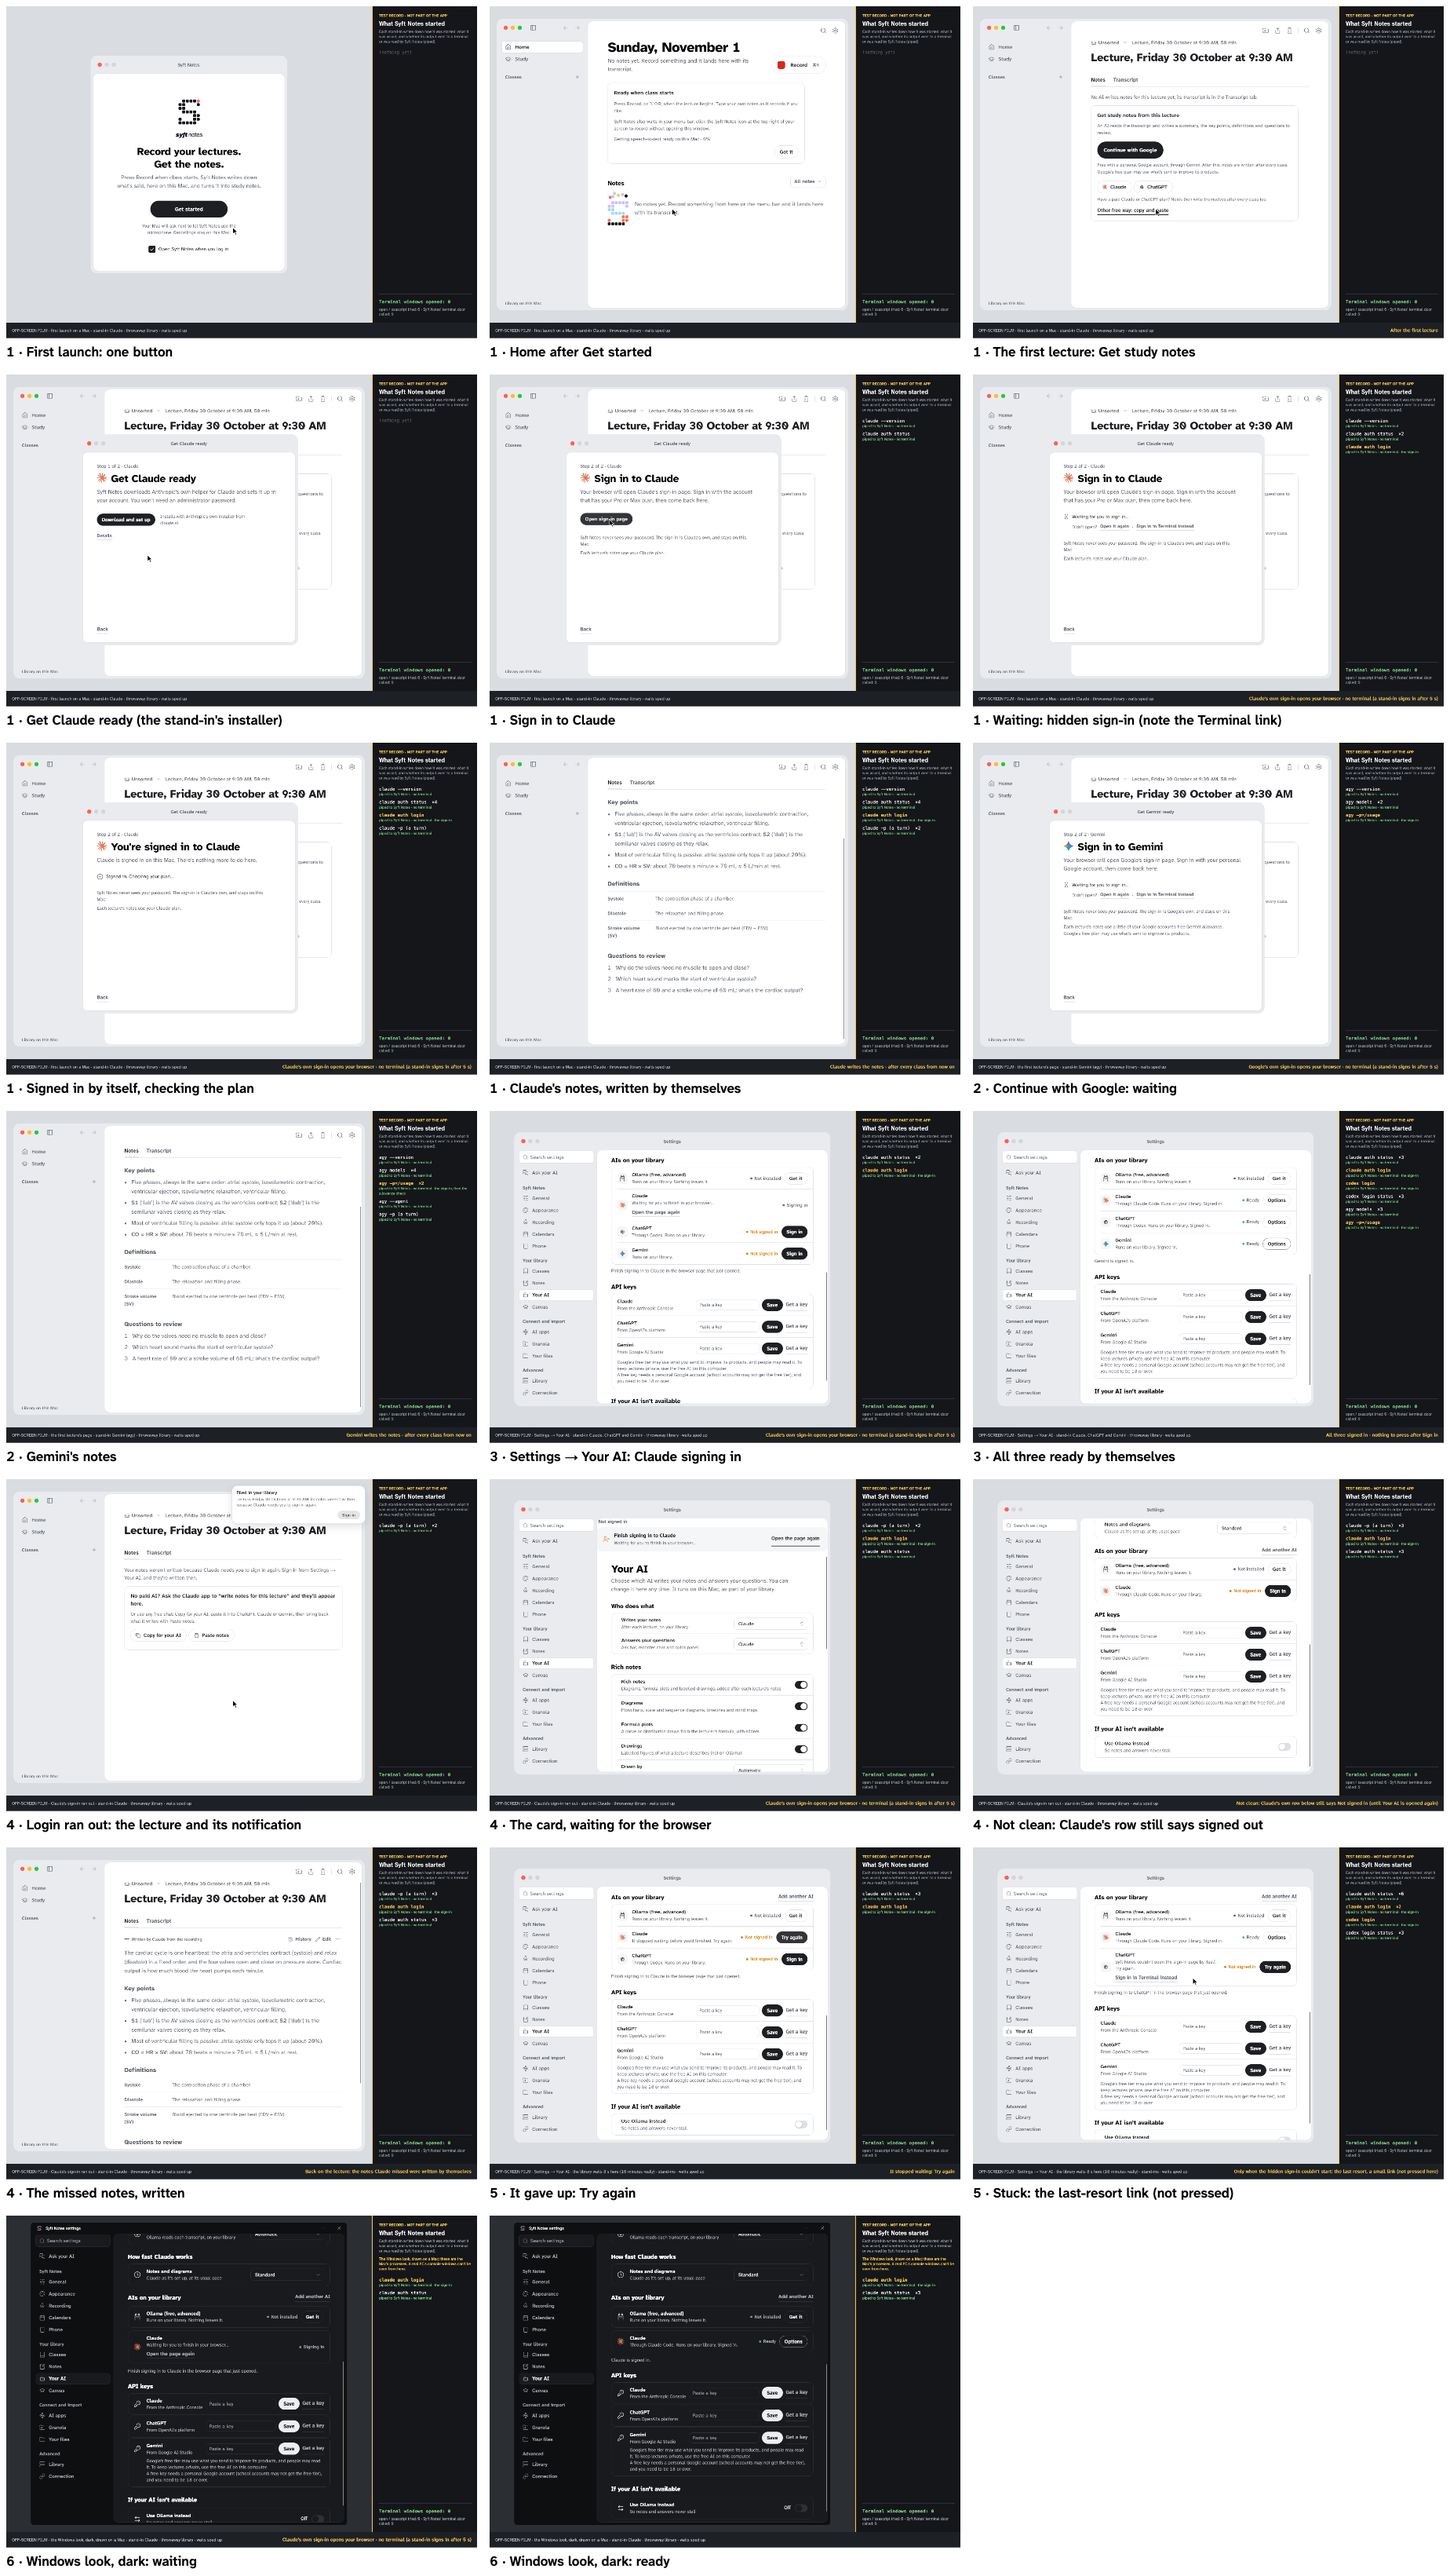
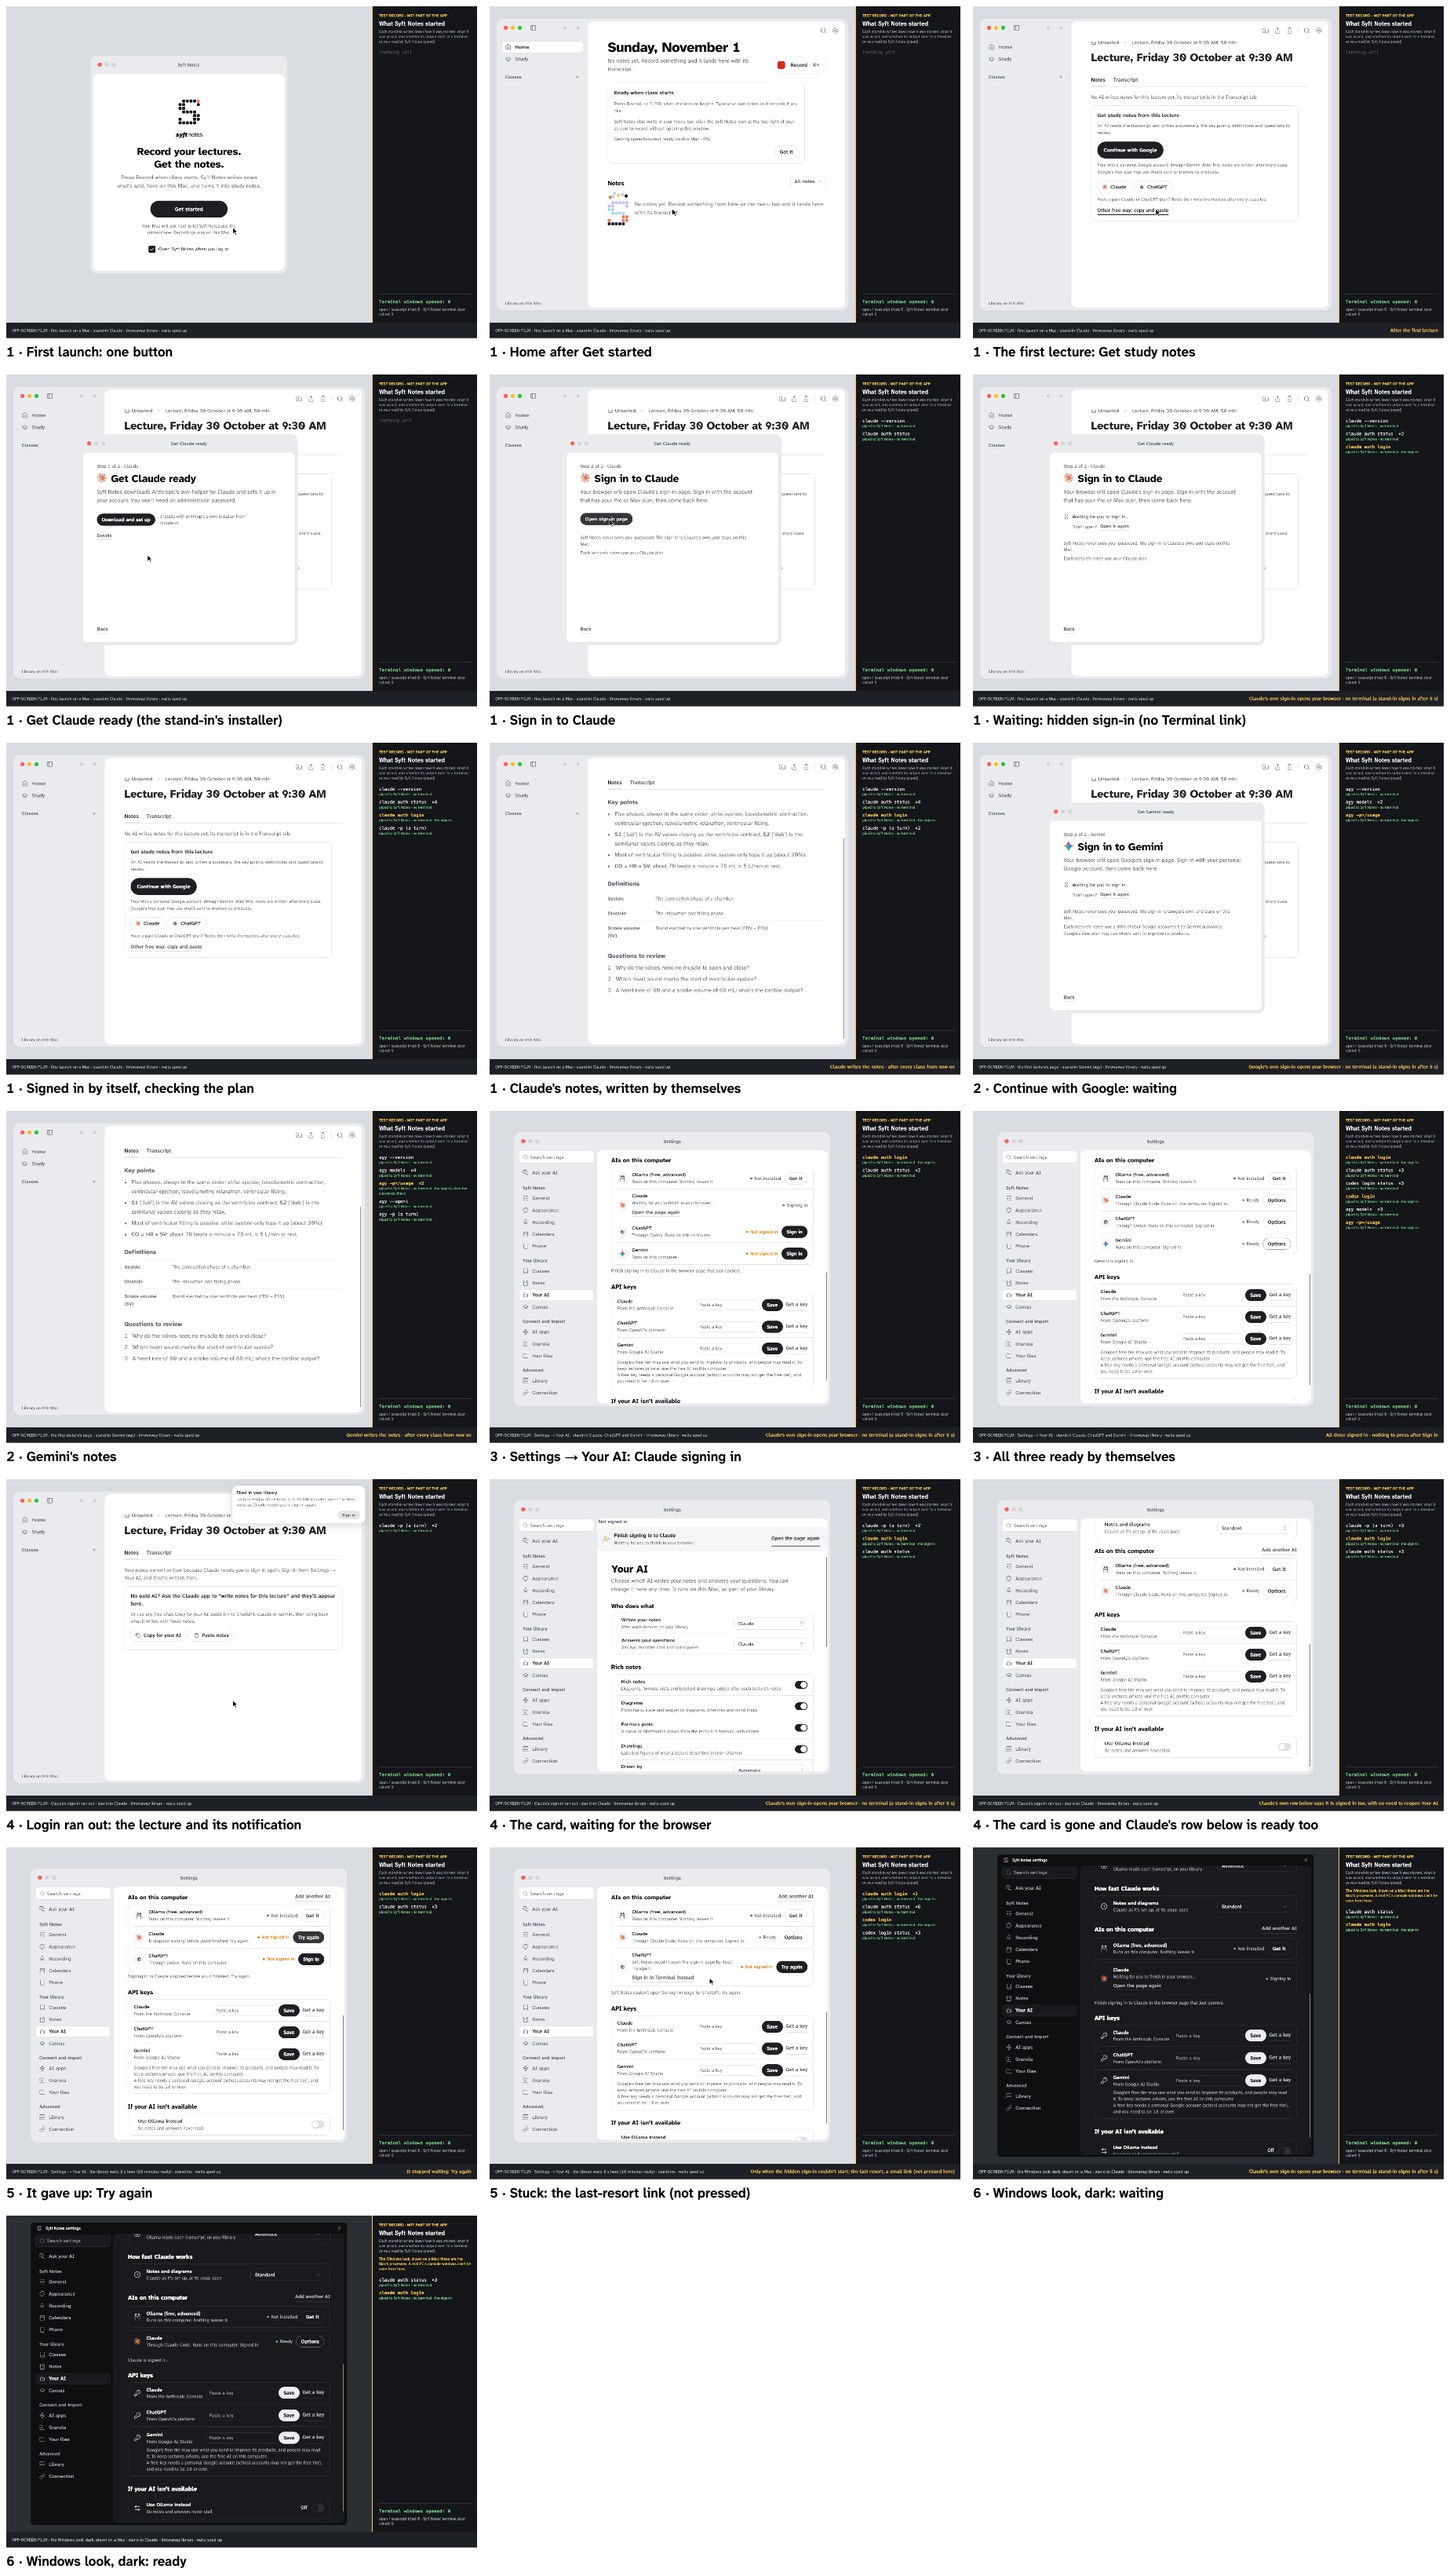
The sign-in films again after the fixes: no Terminal link while the hidden sign-in waits, Claude's row below ready as soon as the Settings card's sign-in finishes, the line under the list agreeing with the stuck row, and this computer in place of your library; the old Not clean caption is gone from 

diff --git a/engine/tests/StudyStash.App.Tests/SignInFilms.cs b/engine/tests/StudyStash.App.Tests/SignInFilms.cs
@@ -286,7 +286,7 @@ public sealed class SignInFilms
         var (model, view) = await SettingsAsync(host, lib);
         desk.Show(view);
         desk.Hold(1.6);
-        desk.ScrollTo(Desk.Words(view, "AIs on your library"));
+        desk.ScrollTo(Desk.Words(view, "AIs on this computer"));
         desk.Hold(1.6);
         await SignInRowAsync(desk, model, view, "claude", "Claude");
         await SignInRowAsync(desk, model, view, "codex", "ChatGPT");
@@ -354,10 +354,9 @@ public sealed class SignInFilms
         await desk.UntilAsync(() => settings.AiProblems.Problems.All(p => p.Kind != "not_signed_in"), "the card gone by itself", TimeSpan.FromSeconds(40));
         desk.Caption("");
         desk.Hold(1.2);
-        // The card's gone, but Your AI's own Claude row below it was read when Settings opened, and nothing tells it:
-        // it still says Not signed in, with Sign in (found while filming; shown as it is).
-        desk.ScrollTo(Desk.Words(settingsView!, "AIs on your library"));
-        desk.Caption("Not clean: Claude's own row below still says Not signed in (until Your AI is opened again)");
+        // The card's gone, and Your AI's own Claude row below it was told by the card's sign-in: it says ready too.
+        desk.ScrollTo(Desk.Words(settingsView!, "AIs on this computer"));
+        desk.Caption("Claude's own row below says it is signed in too, with no need to reopen Your AI");
         desk.Hold(3.6);
         desk.Caption("");
         await desk.UntilAsync(() => lib.Store.Get(Lecture) is { SummaryMd.Length: > 0 }, "the missed notes written", TimeSpan.FromSeconds(40));
@@ -392,7 +391,7 @@ public sealed class SignInFilms
         var (model, view) = await SettingsAsync(host, lib);
         desk.Show(view);
         desk.Hold(1.2);
-        desk.ScrollTo(Desk.Words(view, "AIs on your library"));
+        desk.ScrollTo(Desk.Words(view, "AIs on this computer"));
         desk.Hold(1.2);
         AiEngineRow Row(string id) => model.Engines.Engines.Single(r => r.Id == id);
         var claude = Row("claude");
@@ -440,7 +439,7 @@ public sealed class SignInFilms
             ("01-onboarding-claude", 110, "1 · The first lecture: Get study notes"),
             ("01-onboarding-claude", 160, "1 · Get Claude ready (the stand-in's installer)"),
             ("01-onboarding-claude", 225, "1 · Sign in to Claude"),
-            ("01-onboarding-claude", 270, "1 · Waiting: hidden sign-in (note the Terminal link)"),
+            ("01-onboarding-claude", 270, "1 · Waiting: hidden sign-in (no Terminal link)"),
             ("01-onboarding-claude", 298, "1 · Signed in by itself, checking the plan"),
             ("01-onboarding-claude", 390, "1 · Claude's notes, written by themselves"),
             ("02-onboarding-google", 150, "2 · Continue with Google: waiting"),
@@ -449,7 +448,7 @@ public sealed class SignInFilms
             ("03-settings-claude-chatgpt-gemini", 300, "3 · All three ready by themselves"),
             ("04-claude-login-ran-out", 30, "4 · Login ran out: the lecture and its notification"),
             ("04-claude-login-ran-out", 115, "4 · The card, waiting for the browser"),
-            ("04-claude-login-ran-out", 180, "4 · Not clean: Claude's row still says signed out"),
+            ("04-claude-login-ran-out", 180, "4 · The card is gone and Claude's row below is ready too"),
             ("04-claude-login-ran-out", 235, "4 · The missed notes, written"),
             ("05-fallbacks", 90, "5 · It gave up: Try again"),
             ("05-fallbacks", 245, "5 · Stuck: the last-resort link (not pressed)"),
@@ -502,7 +501,7 @@ public sealed class SignInFilms
         var (model, view) = await SettingsAsync(host, lib);
         desk.Show(view);
         desk.Hold(1.4);
-        desk.ScrollTo(Desk.Words(view, "AIs on your library"));
+        desk.ScrollTo(Desk.Words(view, "AIs on this computer"));
         desk.Hold(1.2);
         await SignInRowAsync(desk, model, view, "claude", "Claude");
         desk.NoPointer();
